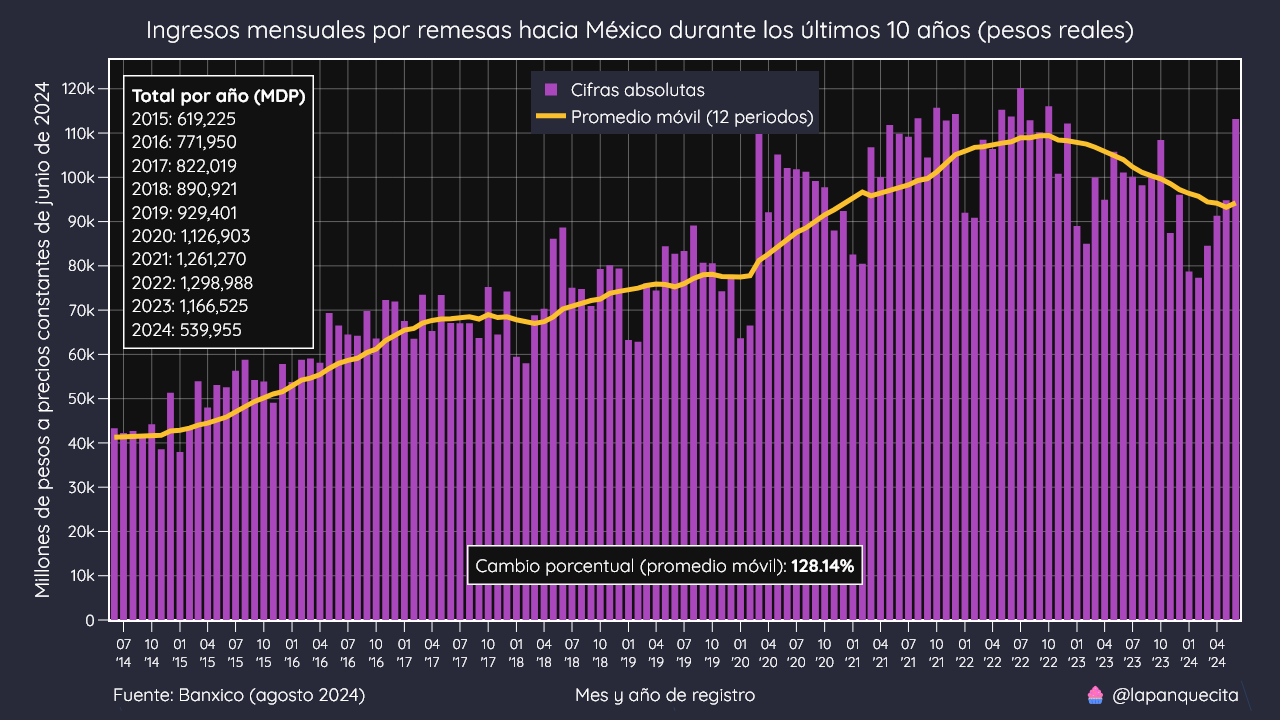
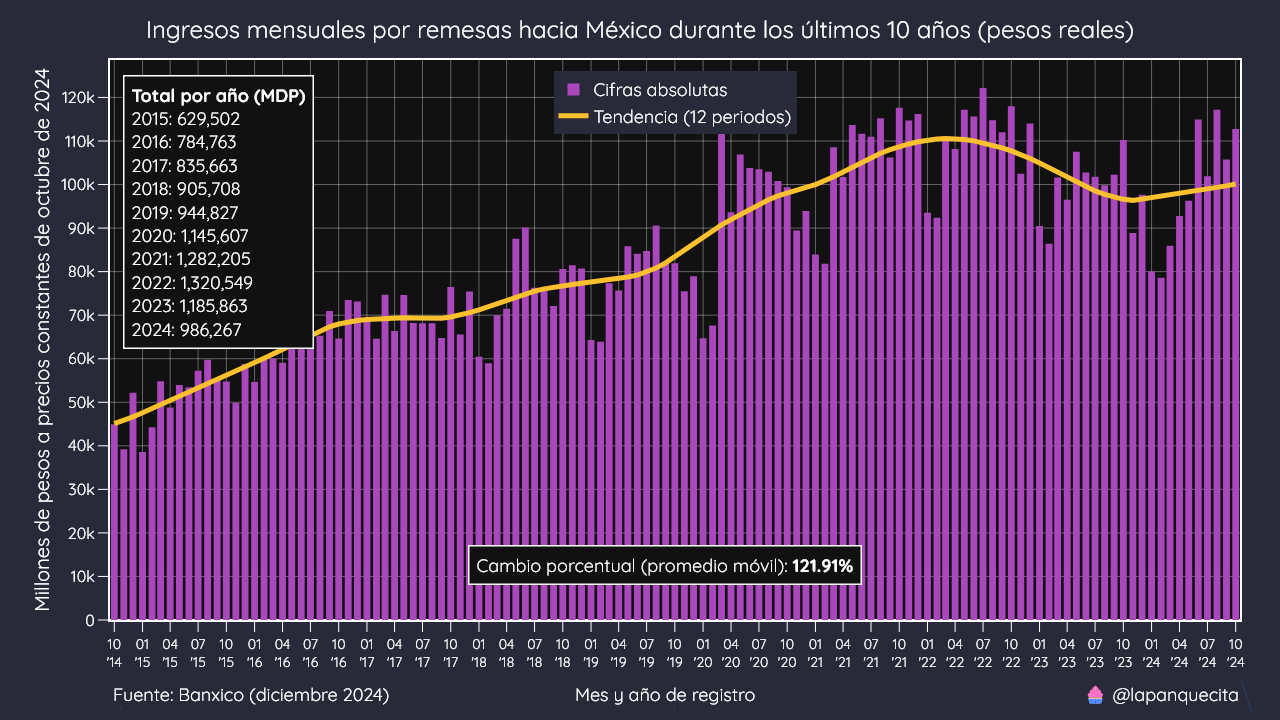
Actualización

Changed region(s): [[0.0312, 0.0917, 0.9688, 0.9778], [0.5312, 0.825, 0.5938, 0.8556]]

diff --git a/remesas_entidad.py b/remesas_entidad.py
@@ -7,6 +7,7 @@ https://www.banxico.org.mx/SieInternet/consultarDirectorioInternetAction.do?sect
 
 import json
 import os
+from datetime import datetime
 
 import numpy as np
 import pandas as pd
@@ -21,7 +22,7 @@ PAPER_COLOR = "#393053"
 HEADER_COLOR = "#e65100"
 
 # Mes y año en que se recopilaron los datos.
-FECHA_FUENTE = "agosto 2024"
+FECHA_FUENTE = "diciembre 2024"
 
 # Periodo de tiempo del análisis.
 PERIODO_TIEMPO = "enero-diciembre"
@@ -327,7 +328,7 @@ def plot_tendencias(primer_año, ultimo_año):
     """
     Esta función crea una cuadrícula de sparklines con los
     estados que han crecido más en ingresos por remesas.
-    
+
     Parameters
     ----------
     primer_año : int
@@ -335,7 +336,7 @@ def plot_tendencias(primer_año, ultimo_año):
 
     ultimo_año :  int
         El año final que se desea comparar.
-    
+
     """
 
     # Cargamos el dataset de remesas por entidad.
@@ -577,6 +578,208 @@ def plot_tendencias(primer_año, ultimo_año):
     fig.write_image("./estados_tendencia.png")
 
 
+def comparar_pib(año):
+    """
+    Esta función crea una gráfica de barras para comparar el valor
+     de las remesas y el del PIB de cada entidad.
+
+    Parameters
+    ----------
+    año : int
+        El año que nos interesa graficar.
+
+    """
+
+    # Cargamos el dataset del PIB por entidad.
+    pib = pd.read_csv("./assets/PIBE_2018.csv", index_col=0)
+
+    # Seleccionamos los datos del año que nos interesa.
+    pib = pib[str(año)]
+
+    # Cargamos el dataset del IPC.
+    ipc = pd.read_csv("./assets/IPC.csv", parse_dates=["Fecha"], index_col=0)
+
+    # Nuestro IPC de referencia será 100, para coincider con la
+    # metodología del INEGI (junio 2018).
+    ipc_referencia = 100
+
+    # Calculamos el factor.
+    ipc["factor"] = ipc_referencia / ipc["IPC"]
+
+    # Remuestramos por promedio trimestral.
+    ipc = ipc.resample("QS").mean()
+
+    # Cargamos el dataset del tipo de cambio.
+    fx = pd.read_csv("./assets/USDMXN.csv", parse_dates=["Fecha"], index_col=0)
+
+    # Remuestramos por promedio trimestral.
+    fx = fx.resample("QS").mean()
+
+    # Cargamos el dataset de remesas por entidad.
+    df = pd.read_csv("./data/remesas_entidad.csv", index_col=0)
+
+    # Seleccionamos las columnas del año que nos interesa.
+    cols = [col for col in df.columns if str(año) in col]
+
+    # Filtramos el DataFrama con las columnas que nos interesan.
+    df = df[cols].transpose()
+
+    # Convertimos el índice a DateTime.
+    df.index = [
+        datetime(año, 1, 1),
+        datetime(año, 4, 1),
+        datetime(año, 7, 1),
+        datetime(año, 10, 1),
+    ]
+
+    data = dict()
+
+    # Iteramos por cada entidad.
+    for entidad in df.columns:
+        # Convertiremos las remesas a su valor real a base 2018.
+        temp_df = df[entidad].to_frame("total")
+        temp_df["cambio"] = fx["Cambio"]
+        temp_df["ipc"] = ipc["factor"]
+        temp_df["real"] = temp_df["total"] * temp_df["cambio"] * temp_df["ipc"]
+
+        # Calculamos el total anual y lo agregamos a nuestro diccionario.
+        data[entidad] = temp_df["real"].sum()
+
+    # Convertimos el diccionario a DataFrame.
+    df = pd.DataFrame.from_dict(data, orient="index", columns=["total"])
+
+    # Calculamos el total anual.
+    df.loc["Nacional"] = df.sum(axis=0)
+
+    # Agregamos el PIB a cada total.
+    df["pib"] = pib
+
+    # Calculamos el porcentaje.
+    df["perc"] = df["total"] / df["pib"] * 100
+
+    # Ordenamos de mayor a menor.
+    df.sort_values("perc", ascending=False, inplace=True)
+
+    # Creamos el texto para cada barra.
+    df["text"] = df.apply(lambda x: f" {x['perc']:,.2f}% ({x['total']:,.0f}) ", axis=1)
+
+    # Hacemos la categoría nacional en negritas.
+    df.index = df.index.str.replace("Nacional", "<b>Nacional</b>")
+
+    fig = go.Figure()
+
+    fig.add_trace(
+        go.Bar(
+            y=df.index,
+            x=df["perc"],
+            text=df["text"],
+            textfont_color="#FFFFFF",
+            textposition=["inside"] + ["outside" for _ in range(len(df) - 1)],
+            orientation="h",
+            marker_color="#aa00ff",
+            textfont_family="Oswald",
+            textfont_size=20,
+        )
+    )
+
+    fig.update_xaxes(
+        range=[0, df["perc"].max() * 1.01],
+        ticksuffix="%",
+        ticks="outside",
+        separatethousands=True,
+        ticklen=10,
+        zeroline=False,
+        title_standoff=15,
+        tickcolor="#FFFFFF",
+        linewidth=2,
+        showline=True,
+        gridwidth=0.5,
+        mirror=True,
+        nticks=20,
+    )
+
+    fig.update_yaxes(
+        tickfont_size=17,
+        tickfont_color="#FFFFFF",
+        autorange="reversed",
+        ticks="outside",
+        separatethousands=True,
+        ticklen=10,
+        title_standoff=6,
+        tickcolor="#FFFFFF",
+        linewidth=2,
+        showgrid=False,
+        gridwidth=0.5,
+        showline=True,
+        mirror=True,
+    )
+
+    fig.update_layout(
+        showlegend=False,
+        width=1280,
+        height=1280,
+        font_family="Lato",
+        font_color="#FFFFFF",
+        font_size=18,
+        title_text=f"Proporción del valor de las remesas respecto al PIB estatal en México durante el año {año}",
+        title_x=0.5,
+        title_y=0.975,
+        margin_t=80,
+        margin_r=40,
+        margin_b=85,
+        margin_l=170,
+        title_font_size=28,
+        plot_bgcolor="#111111",
+        paper_bgcolor="#282A3A",
+        annotations=[
+            dict(
+                x=0.99,
+                y=-0.01,
+                xref="paper",
+                yref="paper",
+                xanchor="right",
+                yanchor="bottom",
+                align="left",
+                bordercolor="#FFFFFF",
+                borderwidth=1.5,
+                borderpad=7,
+                bgcolor="#111111",
+                text="<b>Notas:</b><br>Los ingresos por remesas no forman parte del PIB, sin embargo,<br>se comparan para medir su importancia en la economía estatal.<br>Las cifras están expresadas en millones de pesos constantes de 2018.",
+            ),
+            dict(
+                x=0.01,
+                y=-0.07,
+                xref="paper",
+                yref="paper",
+                xanchor="left",
+                yanchor="top",
+                text=f"Fuente: Banxico ({FECHA_FUENTE})",
+            ),
+            dict(
+                x=0.55,
+                y=-0.07,
+                xref="paper",
+                yref="paper",
+                xanchor="center",
+                yanchor="top",
+                text="Porcentaje respecto al PIB (millones de pesos reales)",
+            ),
+            dict(
+                x=1.01,
+                y=-0.07,
+                xref="paper",
+                yref="paper",
+                xanchor="right",
+                yanchor="top",
+                text="🧁 @lapanquecita",
+            ),
+        ],
+    )
+
+    fig.write_image(f"./remesas_pib_{año}.png")
+
+
 if __name__ == "__main__":
     plot_mapa(2023)
     plot_tendencias(2014, 2023)
+    comparar_pib(2023)

diff --git a/remesas_mensuales.py b/remesas_mensuales.py
@@ -15,13 +15,13 @@ https://www.banxico.org.mx/SieInternet/consultarDirectorioInternetAction.do?acci
 import numpy as np
 import pandas as pd
 import plotly.graph_objects as go
-
+from statsmodels.tsa.seasonal import STL
 
 # Mes y año en que se recopilaron los datos.
-FECHA_FUENTE = "agosto 2024"
+FECHA_FUENTE = "diciembre 2024"
 
 # Mes y año del IPC de referencia.
-FECHA_INFLACION = "junio de 2024"
+FECHA_INFLACION = "octubre de 2024"
 
 
 def plot_mensuales():
@@ -43,15 +43,15 @@ def plot_mensuales():
     for k, v in por_año["total"].items():
         tabla += f"<br>{k.year}: {v:,.0f}"
 
-    # Calculamos la media móvil a 12 periodos.
-    df["rolling"] = df["total"].rolling(12).mean()
+    # Calculamos la tendencia.
+    df["trend"] = STL(df["total"]).fit().trend
 
     # Seleccionamos los últimos 10 años (121 meses).
     df = df[-121:]
 
     # Calculamos el cambio porcentual del primer y último periodo.
     cambio = (
-        (df["rolling"].iloc[-1] - df["rolling"].iloc[0]) / df["rolling"].iloc[0] * 100
+        (df["trend"].iloc[-1] - df["trend"].iloc[0]) / df["trend"].iloc[0] * 100
     )
 
     # Vamos a crear una gráfica de barras con las cifras absolutas y una
@@ -72,8 +72,8 @@ def plot_mensuales():
     fig.add_trace(
         go.Scatter(
             x=df.index,
-            y=df["rolling"],
-            name="Promedio móvil (12 periodos)",
+            y=df["trend"],
+            name="Tendencia (12 periodos)",
             mode="lines",
             line_color="#fbc02d",
             line_width=5,
@@ -220,15 +220,15 @@ def plot_pesos():
     for k, v in por_año["pesos"].items():
         tabla += f"<br>{k.year}: {v:,.0f}"
 
-    # Calculamos la media móvil a 12 periodos.
-    df["rolling"] = df["pesos"].rolling(12).mean()
+    # Calculamos la tendencia.
+    df["trend"] = STL(df["pesos"]).fit().trend
 
     # Seleccionamos los últimos 10 años (121 meses).
     df = df[-121:]
 
     # Calculamos el cambio porcentual del primer y último periodo.
     cambio = (
-        (df["rolling"].iloc[-1] - df["rolling"].iloc[0]) / df["rolling"].iloc[0] * 100
+        (df["trend"].iloc[-1] - df["trend"].iloc[0]) / df["trend"].iloc[0] * 100
     )
 
     # Vamos a crear una gráfica de barras con las cifras absolutas y una
@@ -249,8 +249,8 @@ def plot_pesos():
     fig.add_trace(
         go.Scatter(
             x=df.index,
-            y=df["rolling"],
-            name="Promedio móvil (12 periodos)",
+            y=df["trend"],
+            name="Tendencia (12 periodos)",
             mode="lines",
             line_color="#fbc02d",
             line_width=5,
@@ -412,15 +412,15 @@ def plot_real():
     for k, v in por_año["real"].items():
         tabla += f"<br>{k.year}: {v:,.0f}"
 
-    # Calculamos la media móvil a 12 periodos.
-    df["rolling"] = df["real"].rolling(12).mean()
+    # Calculamos la tendencia.
+    df["trend"] = STL(df["real"]).fit().trend
 
     # Seleccionamos los últimos 10 años (121 meses).
     df = df[-121:]
 
     # Calculamos el cambio porcentual del primer y último periodo.
     cambio = (
-        (df["rolling"].iloc[-1] - df["rolling"].iloc[0]) / df["rolling"].iloc[0] * 100
+        (df["trend"].iloc[-1] - df["trend"].iloc[0]) / df["trend"].iloc[0] * 100
     )
 
     # Vamos a crear una gráfica de barras con las cifras absolutas y una
@@ -441,8 +441,8 @@ def plot_real():
     fig.add_trace(
         go.Scatter(
             x=df.index,
-            y=df["rolling"],
-            name="Promedio móvil (12 periodos)",
+            y=df["trend"],
+            name="Tendencia (12 periodos)",
             mode="lines",
             line_color="#fbc02d",
             line_width=5,
